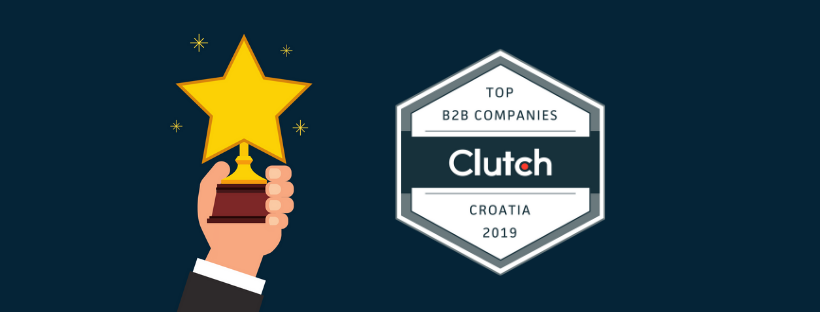
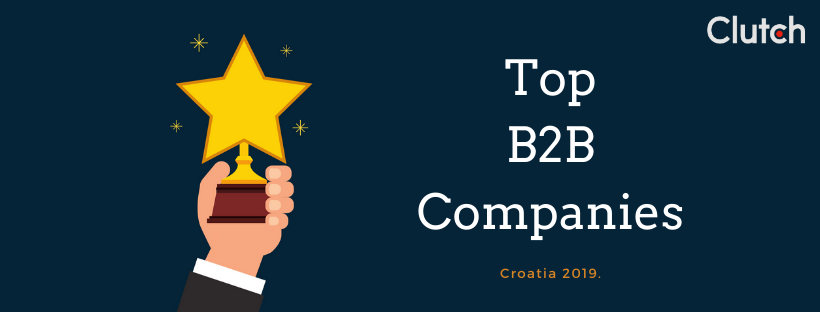
Update blog post

Changed region(s): [[0.4573, 0.1442, 0.8537, 0.8942], [0.8537, 0.0577, 1.0, 0.1442]]

diff --git a/site/content/blog/NodeFactory-wins-Top-Blockchain-Developer-in-Croatia.md b/site/content/blog/NodeFactory-wins-Top-Blockchain-Developer-in-Croatia.md
@@ -20,6 +20,8 @@ leaders based on customer feedback and have declared leaders in a
 [recent press release](https://clutch.co/croatia/developers/blockchain). Based on our reviews, Clutch has awarded us a
 perfect ***5-star rating***!
 
+{{<figure src="/images/blog/Croatia_B2B_Companies_2019.png" height="200">}}
+
 In the reviews, we were praised for our product and our blockchain expertise.
 Some of them are:
 
